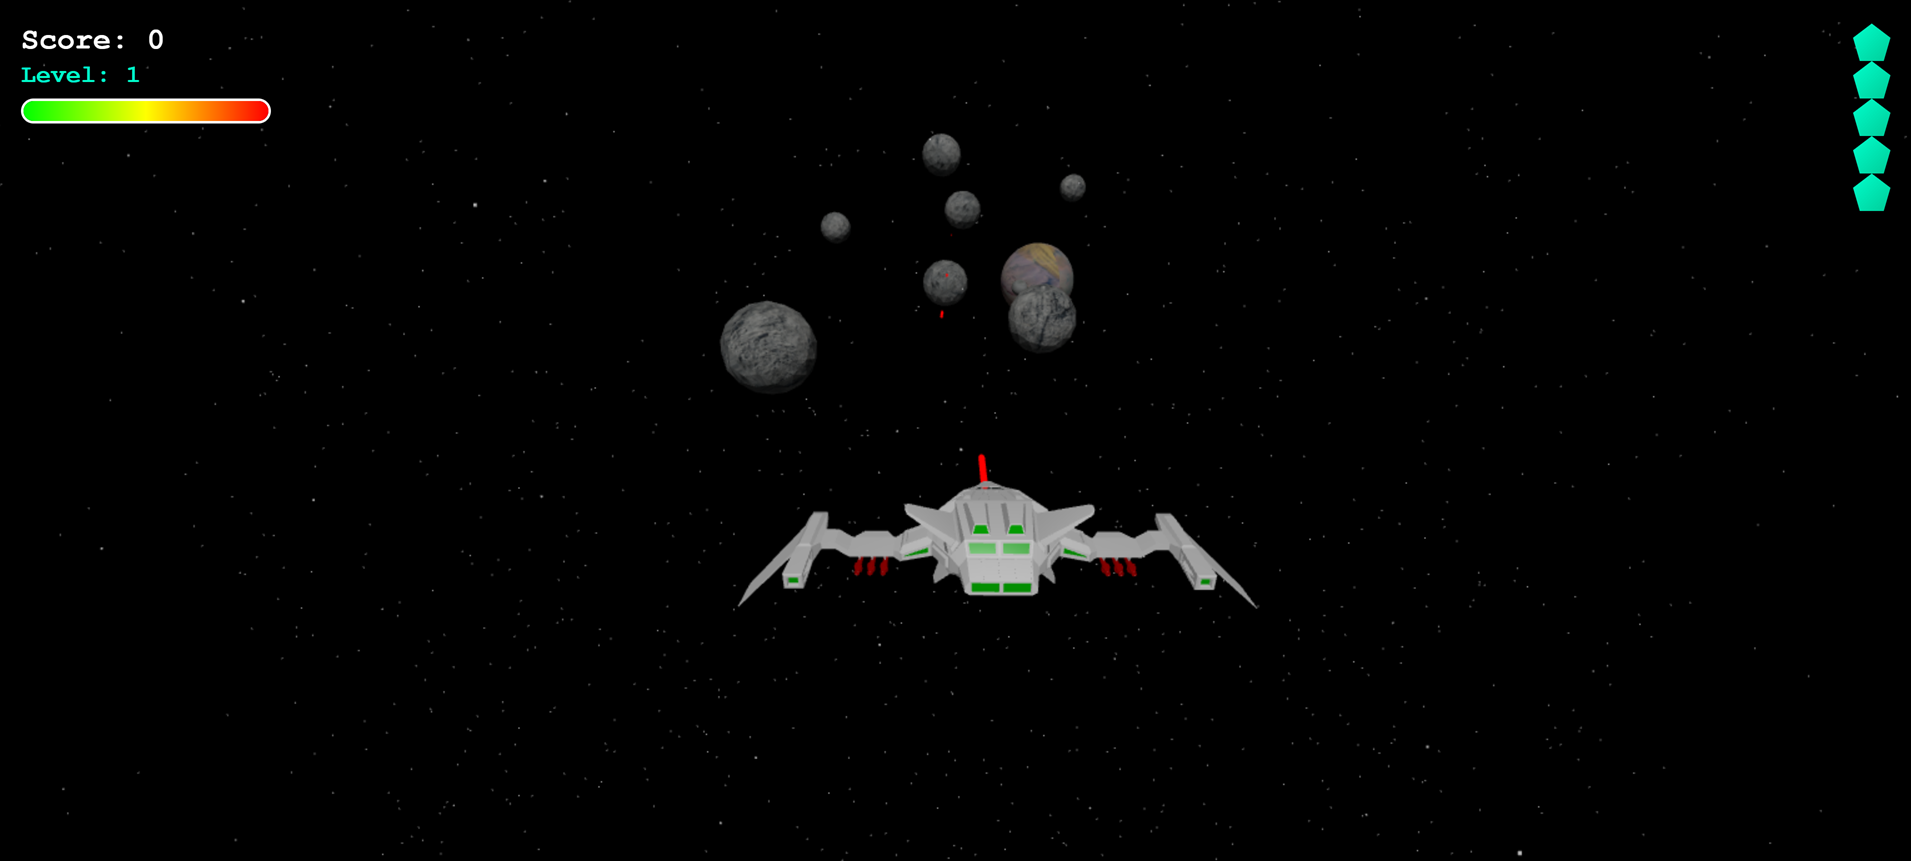
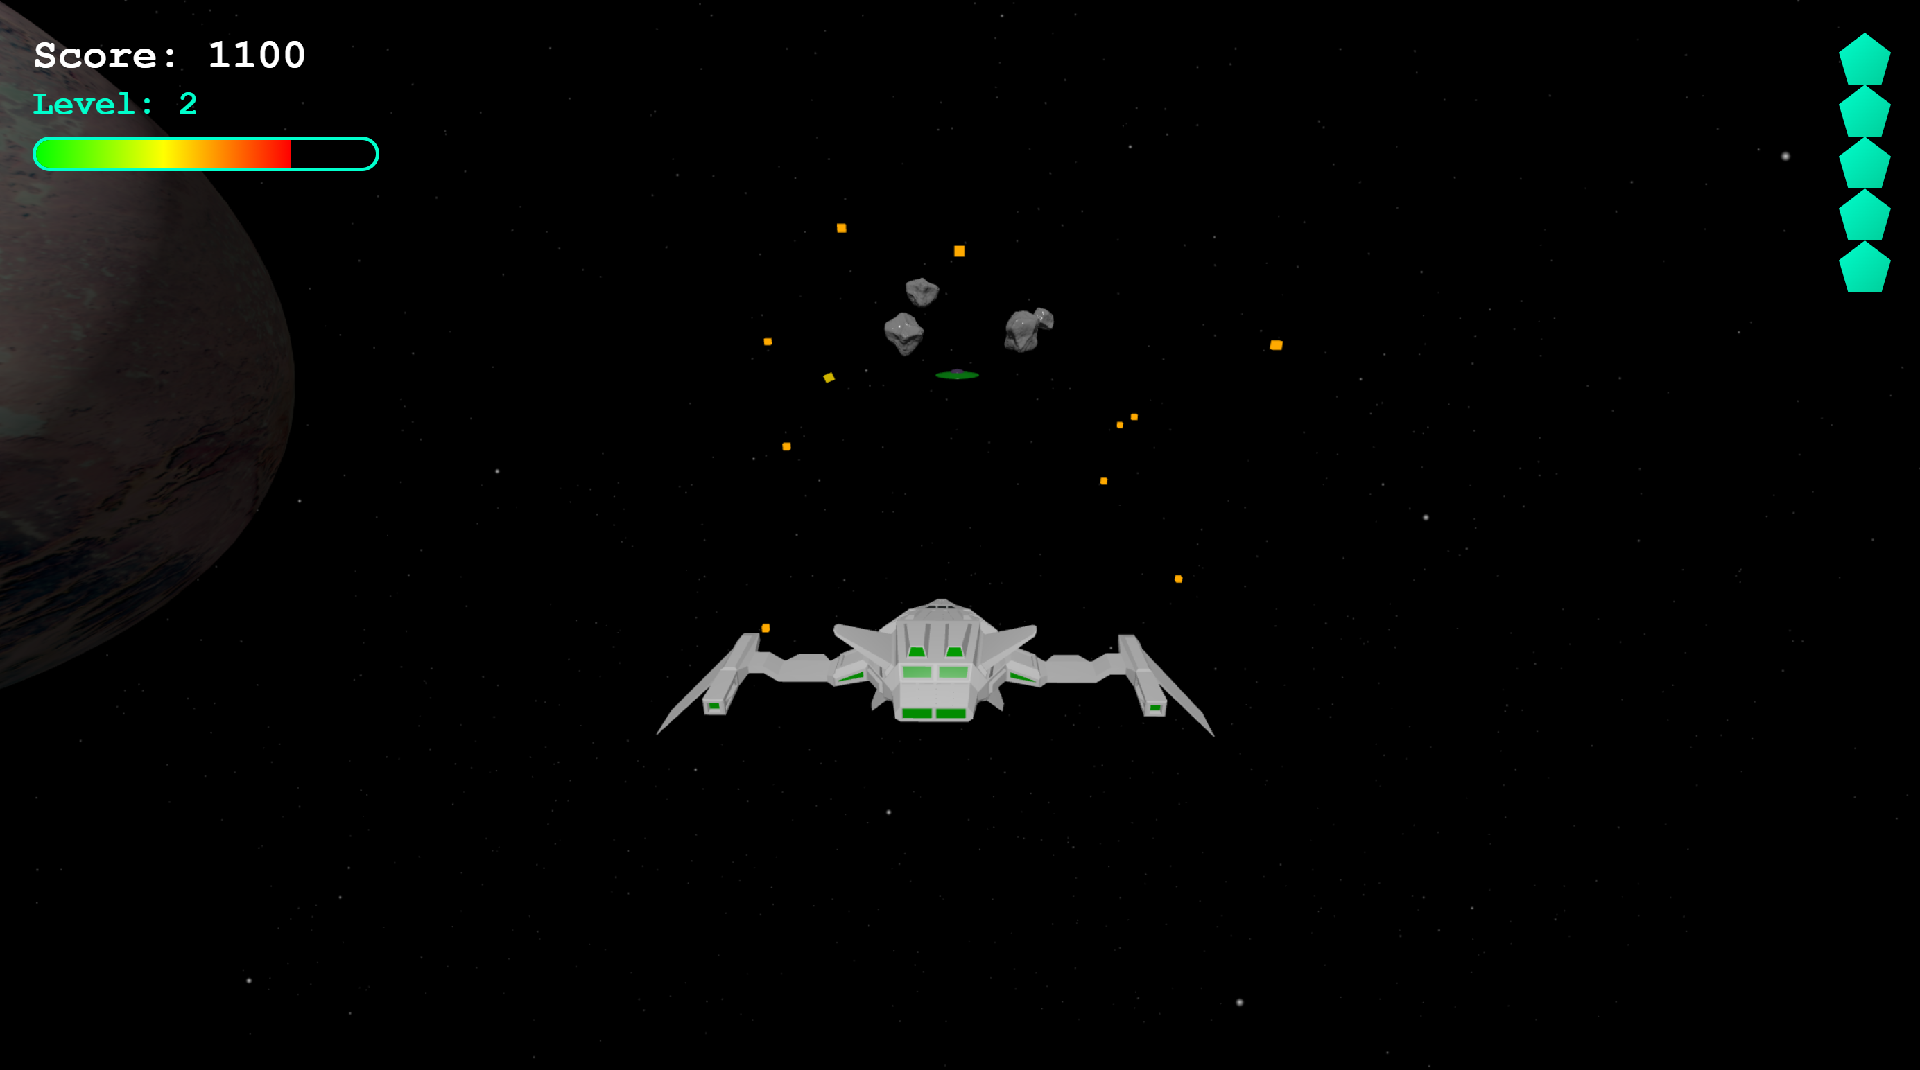
feat: Add Fighter_02 3D model, audio README, and cover image.

diff --git a/src/assets/audio/README.md b/src/assets/audio/README.md
@@ -1,0 +1,92 @@
+# Audio Assets Structure
+
+This directory contains all audio assets for the space shooter game.
+
+## Directory Structure
+
+### 📁 `music/`
+Background music and soundtracks
+- `menu-theme.mp3` - Main menu background music
+- `level-1-theme.mp3` - Level 1 gameplay music
+- `level-2-theme.mp3` - Level 2 gameplay music
+- `boss-theme.mp3` - Boss battle music
+- `game-over-theme.mp3` - Game over screen music
+- `victory-theme.mp3` - Victory/level complete music
+
+### 📁 `sfx/weapons/`
+Weapon and shooting sounds
+- `laser-shot.mp3` - Player laser firing sound
+- `laser-shot-alt.mp3` - Alternative laser sound (for variety)
+- `rapid-fire.mp3` - Rapid fire weapon sound
+- `missile-launch.mp3` - Missile/rocket launch sound
+- `weapon-charge.mp3` - Weapon charging sound
+
+### 📁 `sfx/explosions/`
+Explosion and destruction sounds
+- `explosion-small.mp3` - Small meteor/enemy explosion
+- `explosion-medium.mp3` - Medium explosion
+- `explosion-large.mp3` - Large explosion (boss, big meteors)
+- `player-explosion.mp3` - Player ship destruction
+
+### 📁 `sfx/enemies/`
+Enemy-specific sounds
+- `ufo-beep.mp3` - UFO movement/detection beep
+- `ufo-boop.mp3` - UFO secondary sound
+- `enemy-laser.mp3` - Enemy weapon fire
+- `boss-roar.mp3` - Boss appearance/attack sound
+
+### 📁 `sfx/player/`
+Player ship sounds
+- `player-death.mp3` - Player death sound (separate from explosion)
+- `ship-engine.mp3` - Continuous engine hum (loopable)
+- `shield-hit.mp3` - Shield taking damage
+- `shield-down.mp3` - Shield depleted warning
+
+### 📁 `sfx/powerups/`
+Power-up and collectible sounds
+- `powerup-collect.mp3` - Generic power-up collection
+- `health-pickup.mp3` - Health/life restoration
+- `weapon-upgrade.mp3` - Weapon upgrade pickup
+- `shield-pickup.mp3` - Shield power-up
+- `score-bonus.mp3` - Bonus points collection
+
+### 📁 `sfx/ui/`
+User interface sounds
+- `menu-click.mp3` - Menu button click
+- `menu-hover.mp3` - Menu button hover
+- `menu-back.mp3` - Back/cancel button
+- `pause.mp3` - Game pause sound
+- `unpause.mp3` - Game resume sound
+- `level-complete.mp3` - Level completion sound
+- `game-over.mp3` - Game over sound
+
+### 📁 `sfx/environment/`
+Environmental and ambient sounds
+- `comet-whoosh.mp3` - Comet/meteor passing sound
+- `meteor-impact.mp3` - Meteor hitting something
+- `level-start.mp3` - Level transition/start
+- `warning-alarm.mp3` - Danger/warning sound
+- `warp-jump.mp3` - Level transition warp effect
+
+## Audio Format Recommendations
+
+- **Format**: MP3 or OGG for broad browser compatibility
+- **Sample Rate**: 44.1kHz
+- **Bit Rate**: 128-192 kbps for music, 96-128 kbps for SFX
+- **Channels**: Stereo for music, mono for most SFX
+
+## Implementation Notes
+
+1. Use Web Audio API for better control and performance
+2. Preload critical sounds (weapons, explosions) during game load
+3. Implement volume controls for music and SFX separately
+4. Consider using audio sprites for small, frequently-used sounds
+5. Add mute/unmute functionality
+6. Loop background music seamlessly
+
+## File Naming Convention
+
+- Use lowercase with hyphens
+- Be descriptive but concise
+- Group related sounds with prefixes when applicable
+- Use consistent file extensions (.mp3 recommended)
